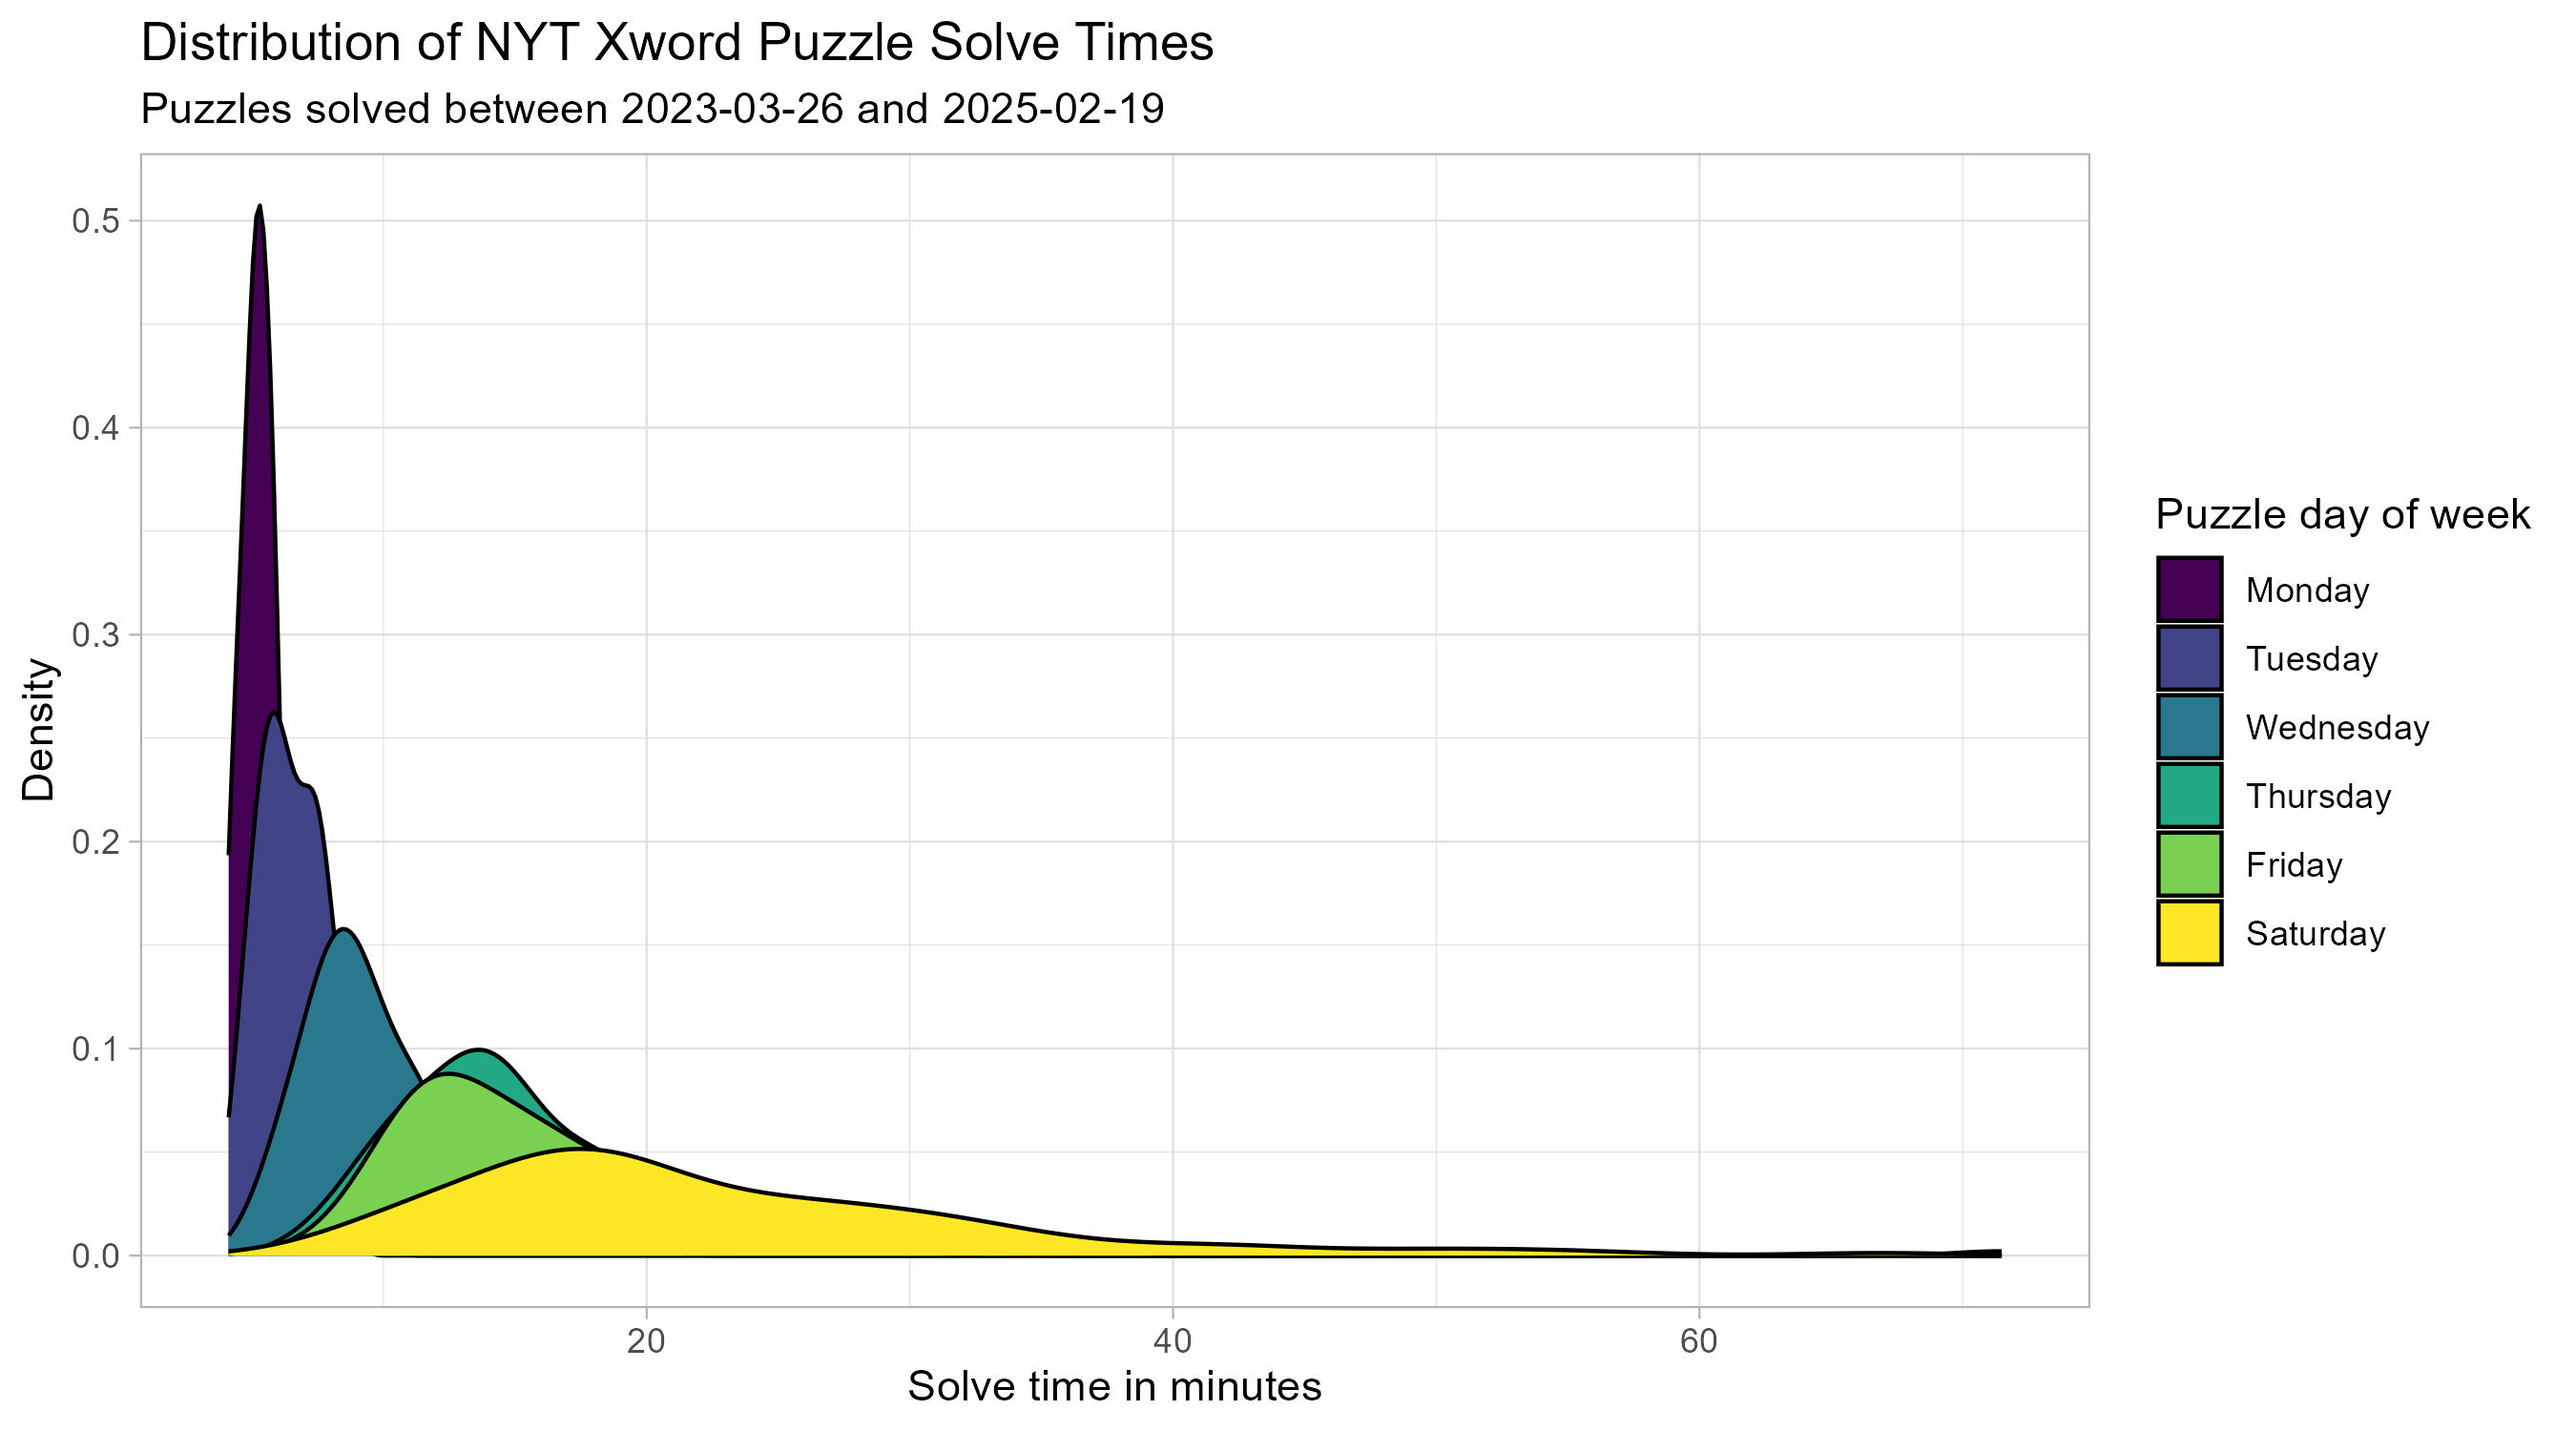
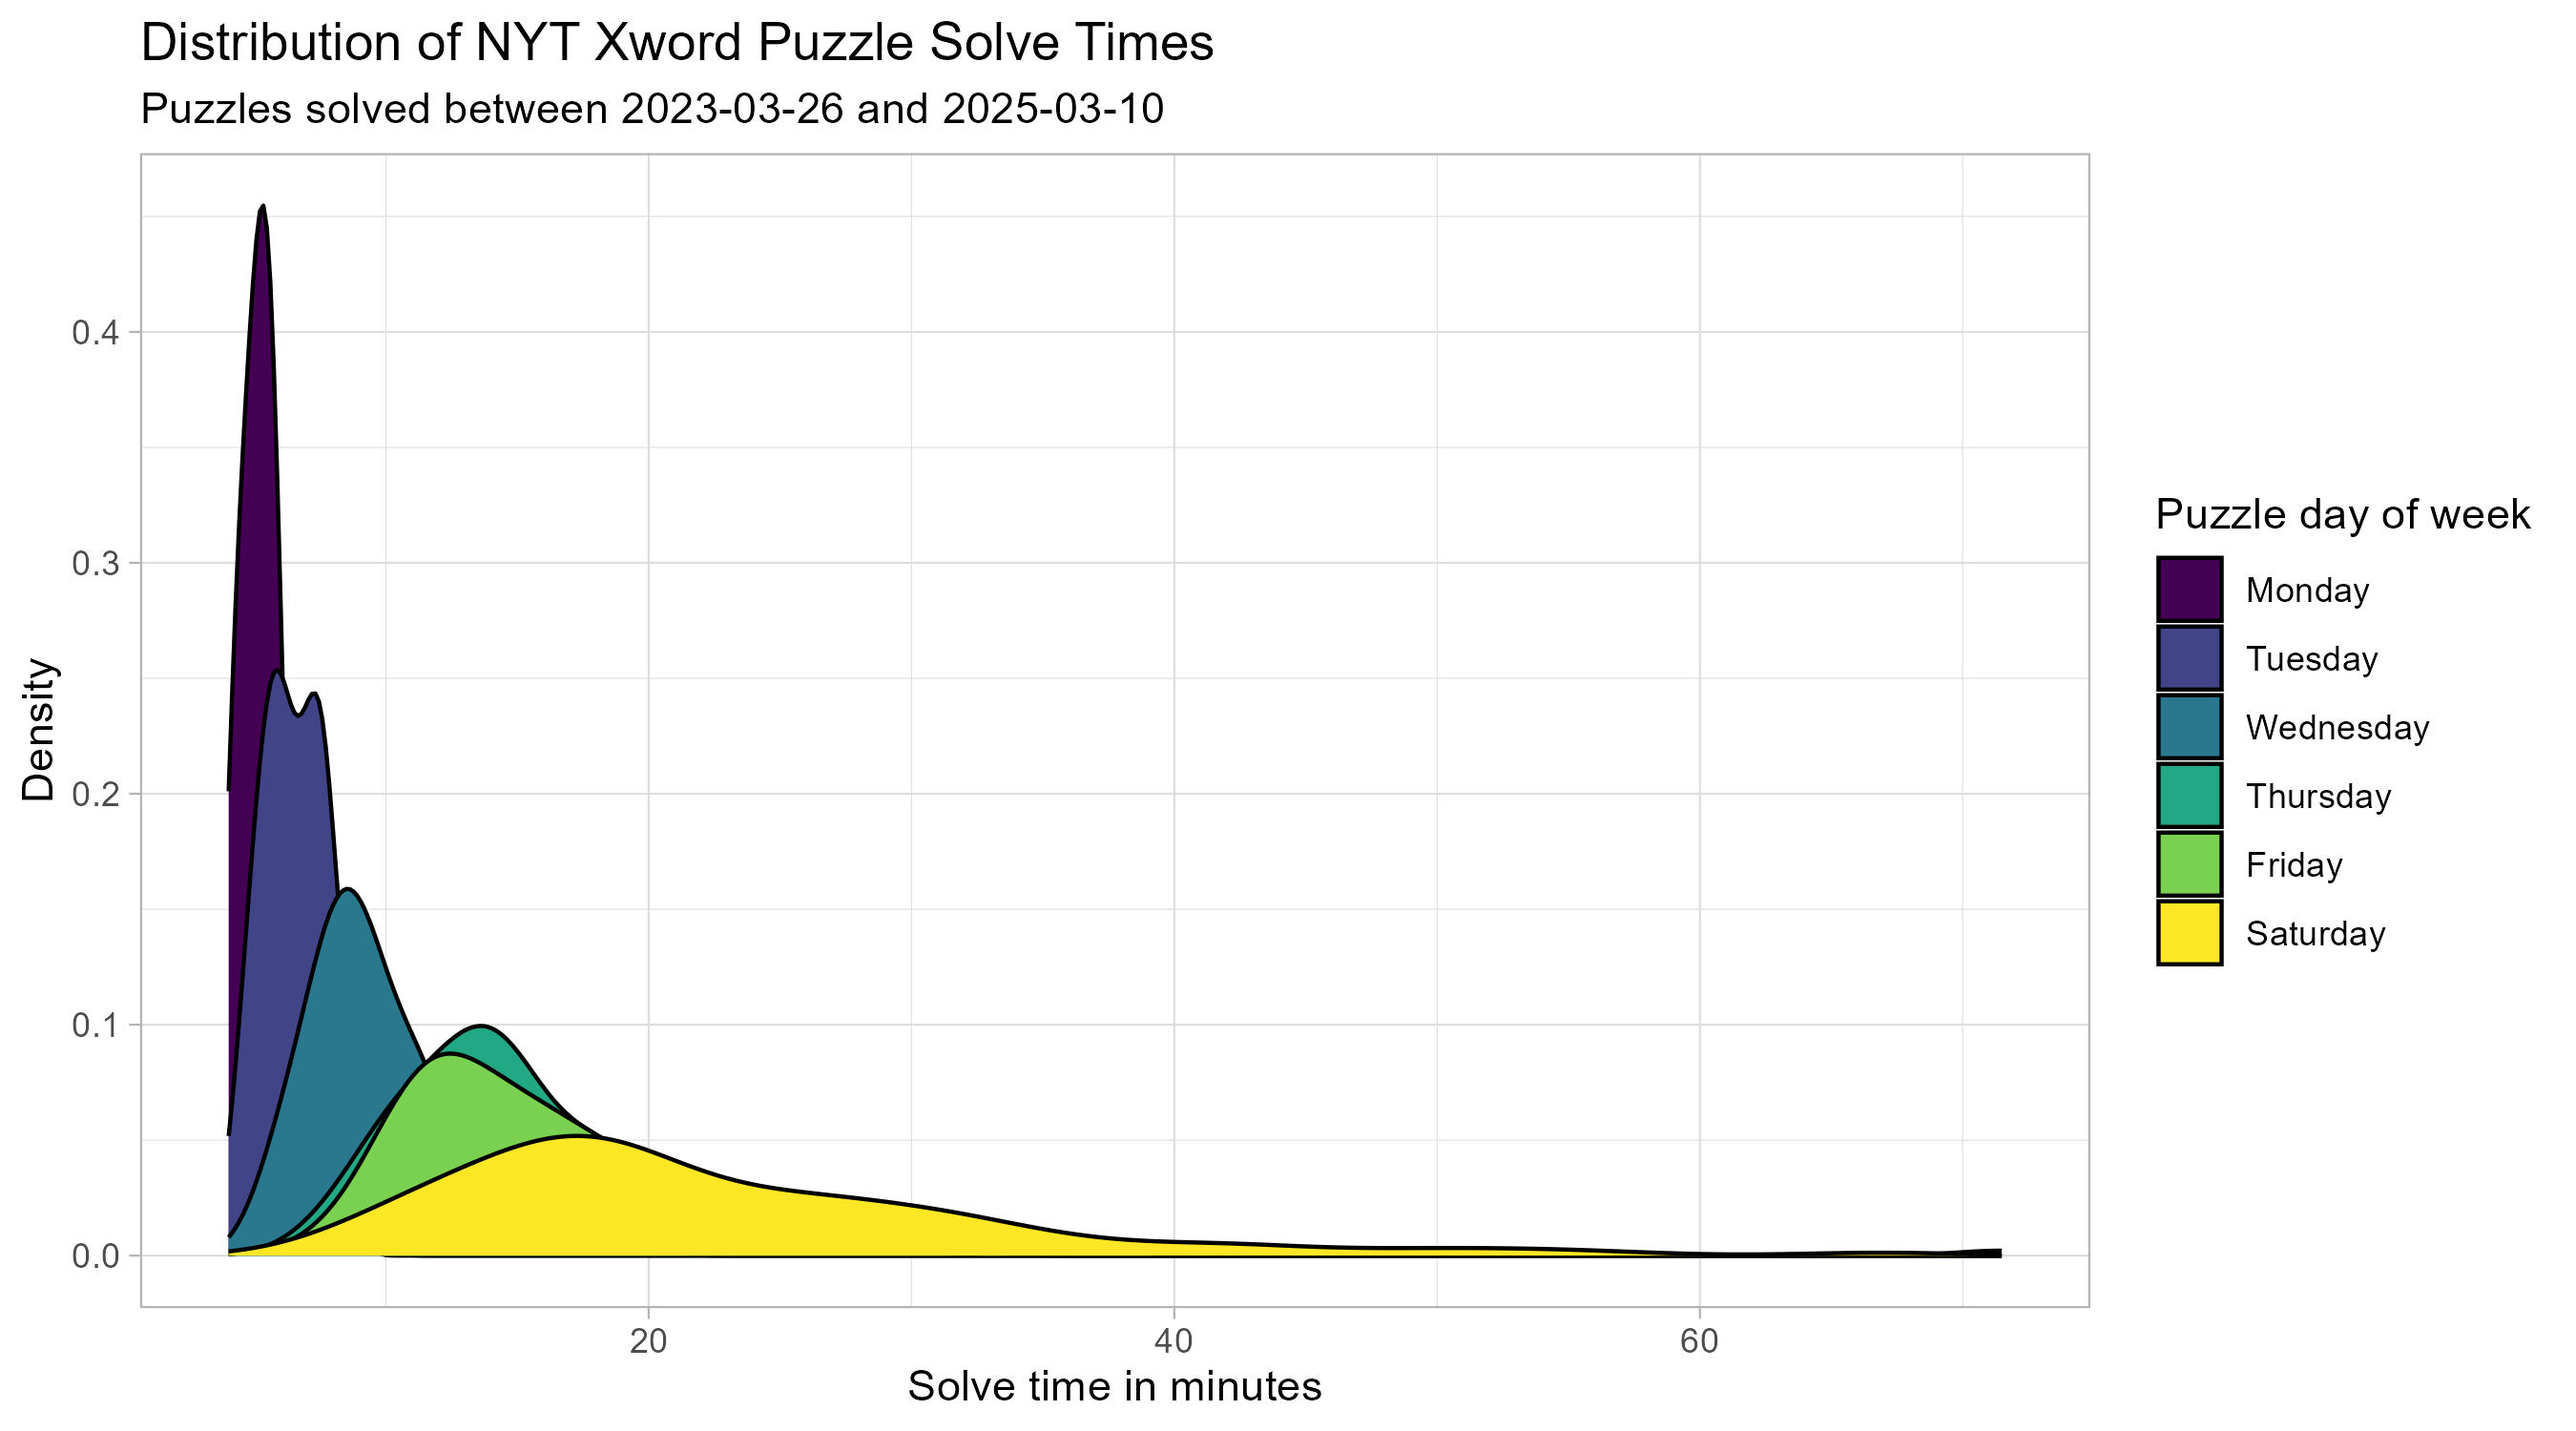
new data pull less dumb way of dealing with outlier updates to doc format

diff --git a/README.md b/README.md
@@ -1,2 +1,7 @@
 # xwords
-nyt xword navel-gazing project
+#### nyt xword navel-gazing project
+
+This is a project for analyzing and visualizing my New York Times 
+Crossword puzzle solves. Data downloaded from https://xwstats.com/ 
+Historical data from 11 years of pen/paper NYT crossword solves 
+has been lost irrevocably to the sands of time.
